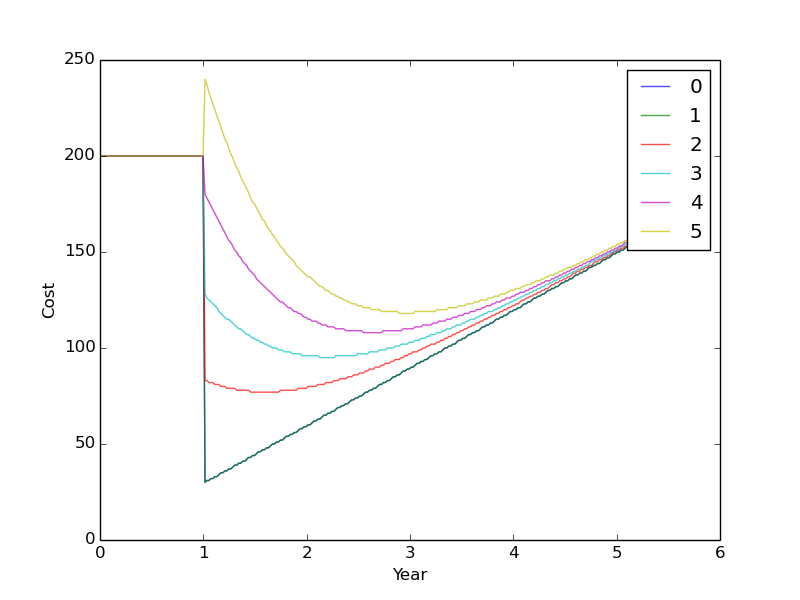
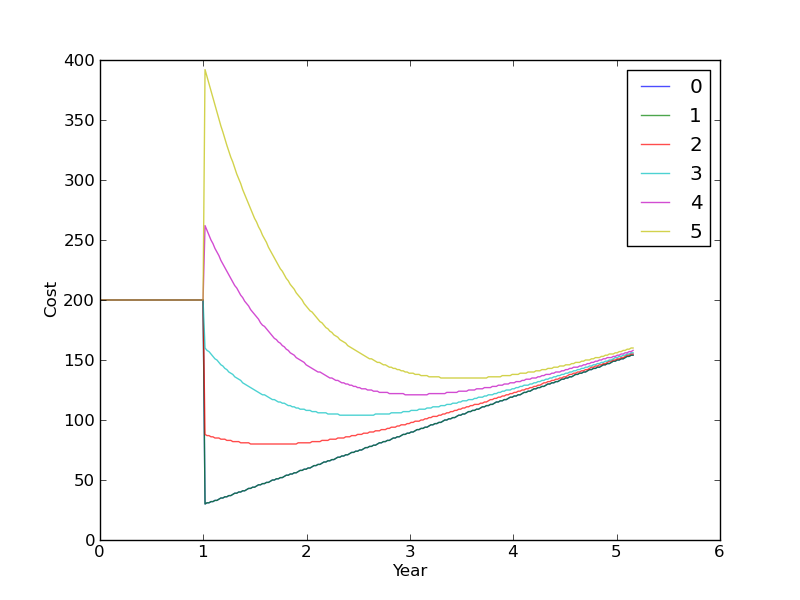
More penalty on nAWS > 3.

diff --git a/compute_cost.py b/compute_cost.py
@@ -28,7 +28,7 @@ def computeCost( currentDate, lastDate, nAWS ):
     else:
         cost = 3 * nyears 
         if nAWS > 1:
-            cost +=  (3 * nAWS) ** 1.5  * math.exp( - nyears ) 
+            cost +=  ((2 * nAWS) ** 2) * math.exp( - nyears ) 
 
     return int( 10 * max( 0, cost ))
 
